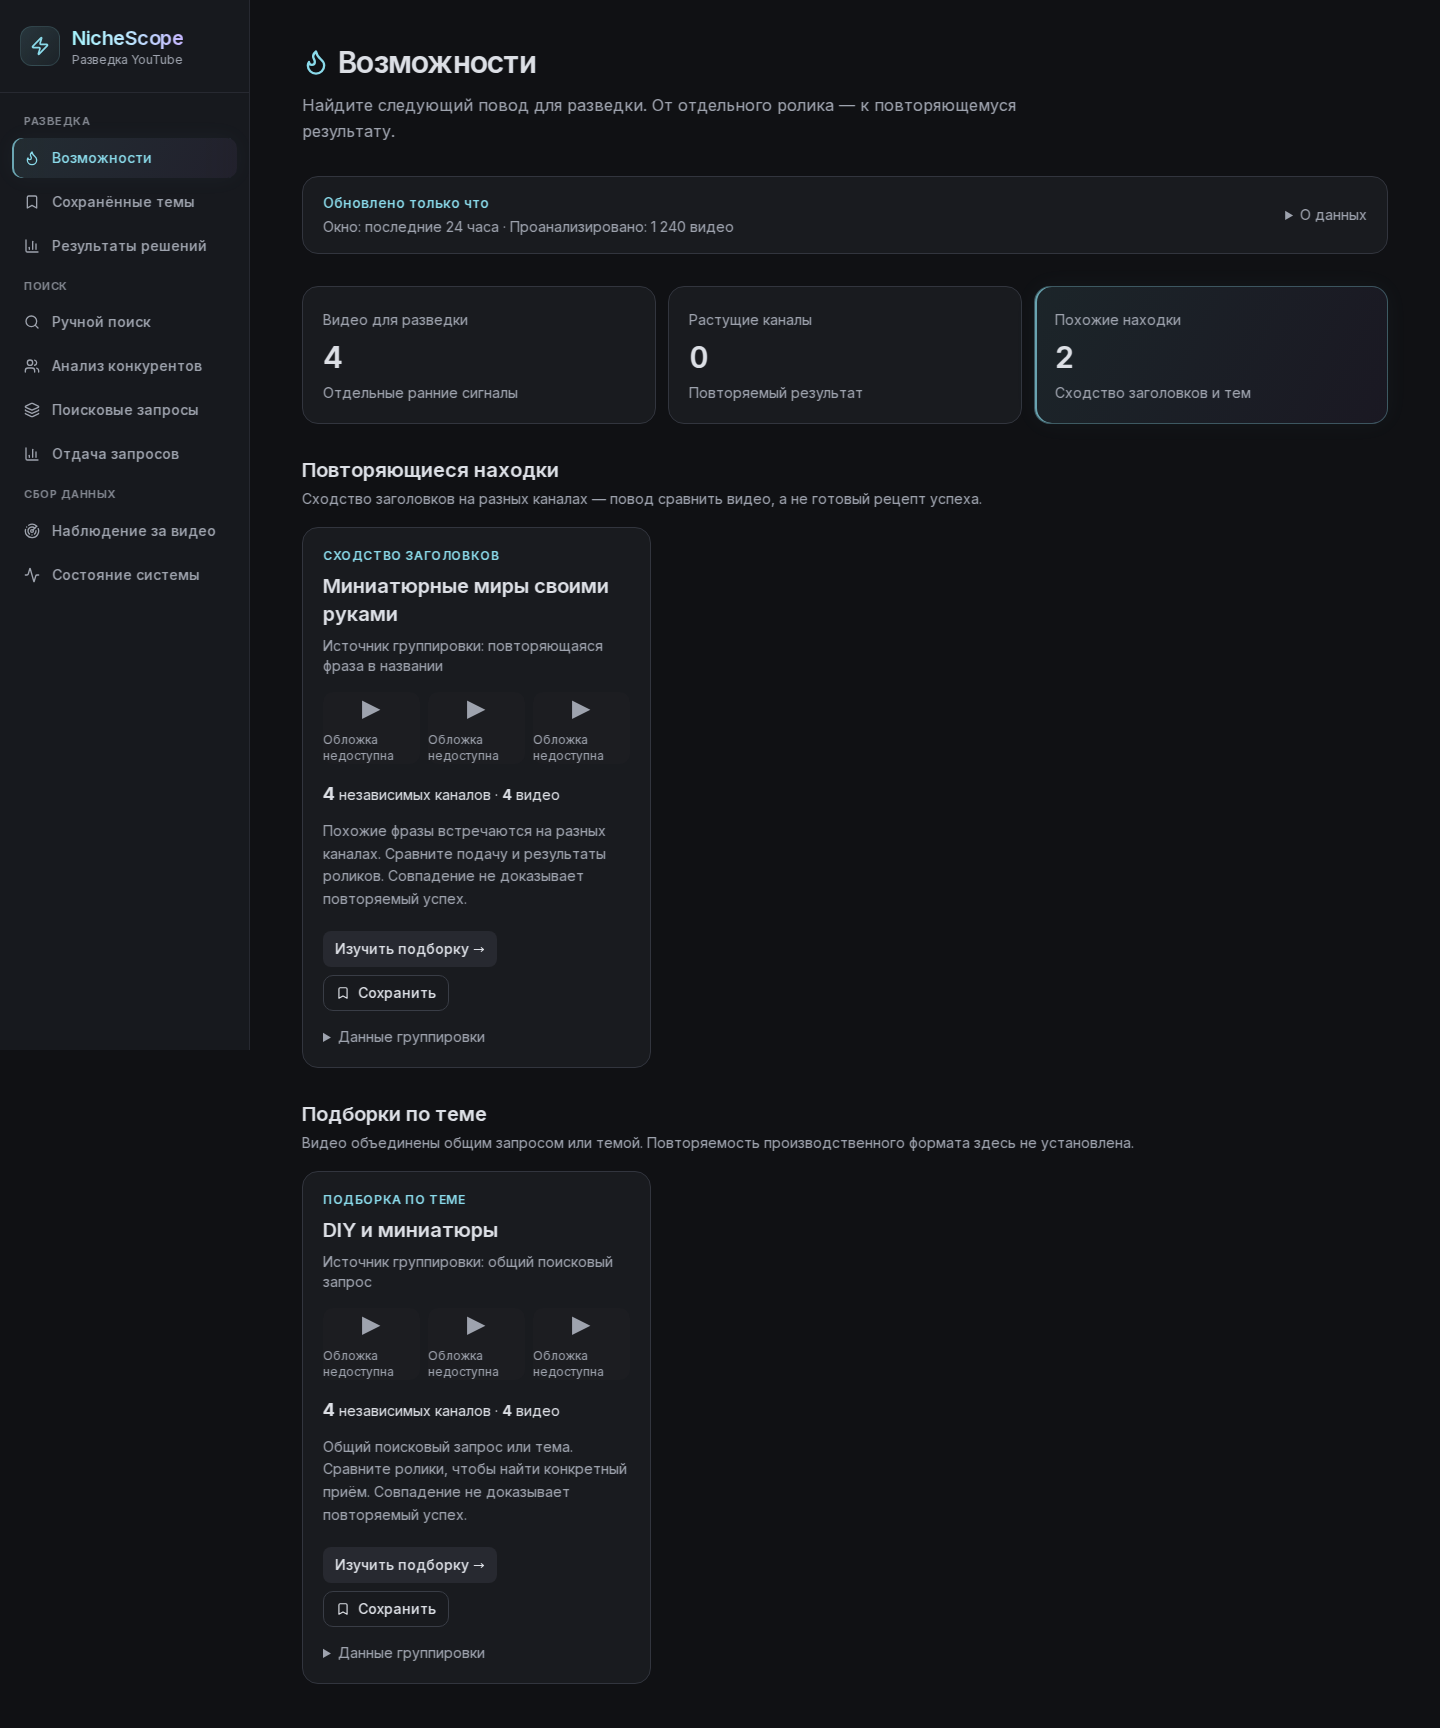
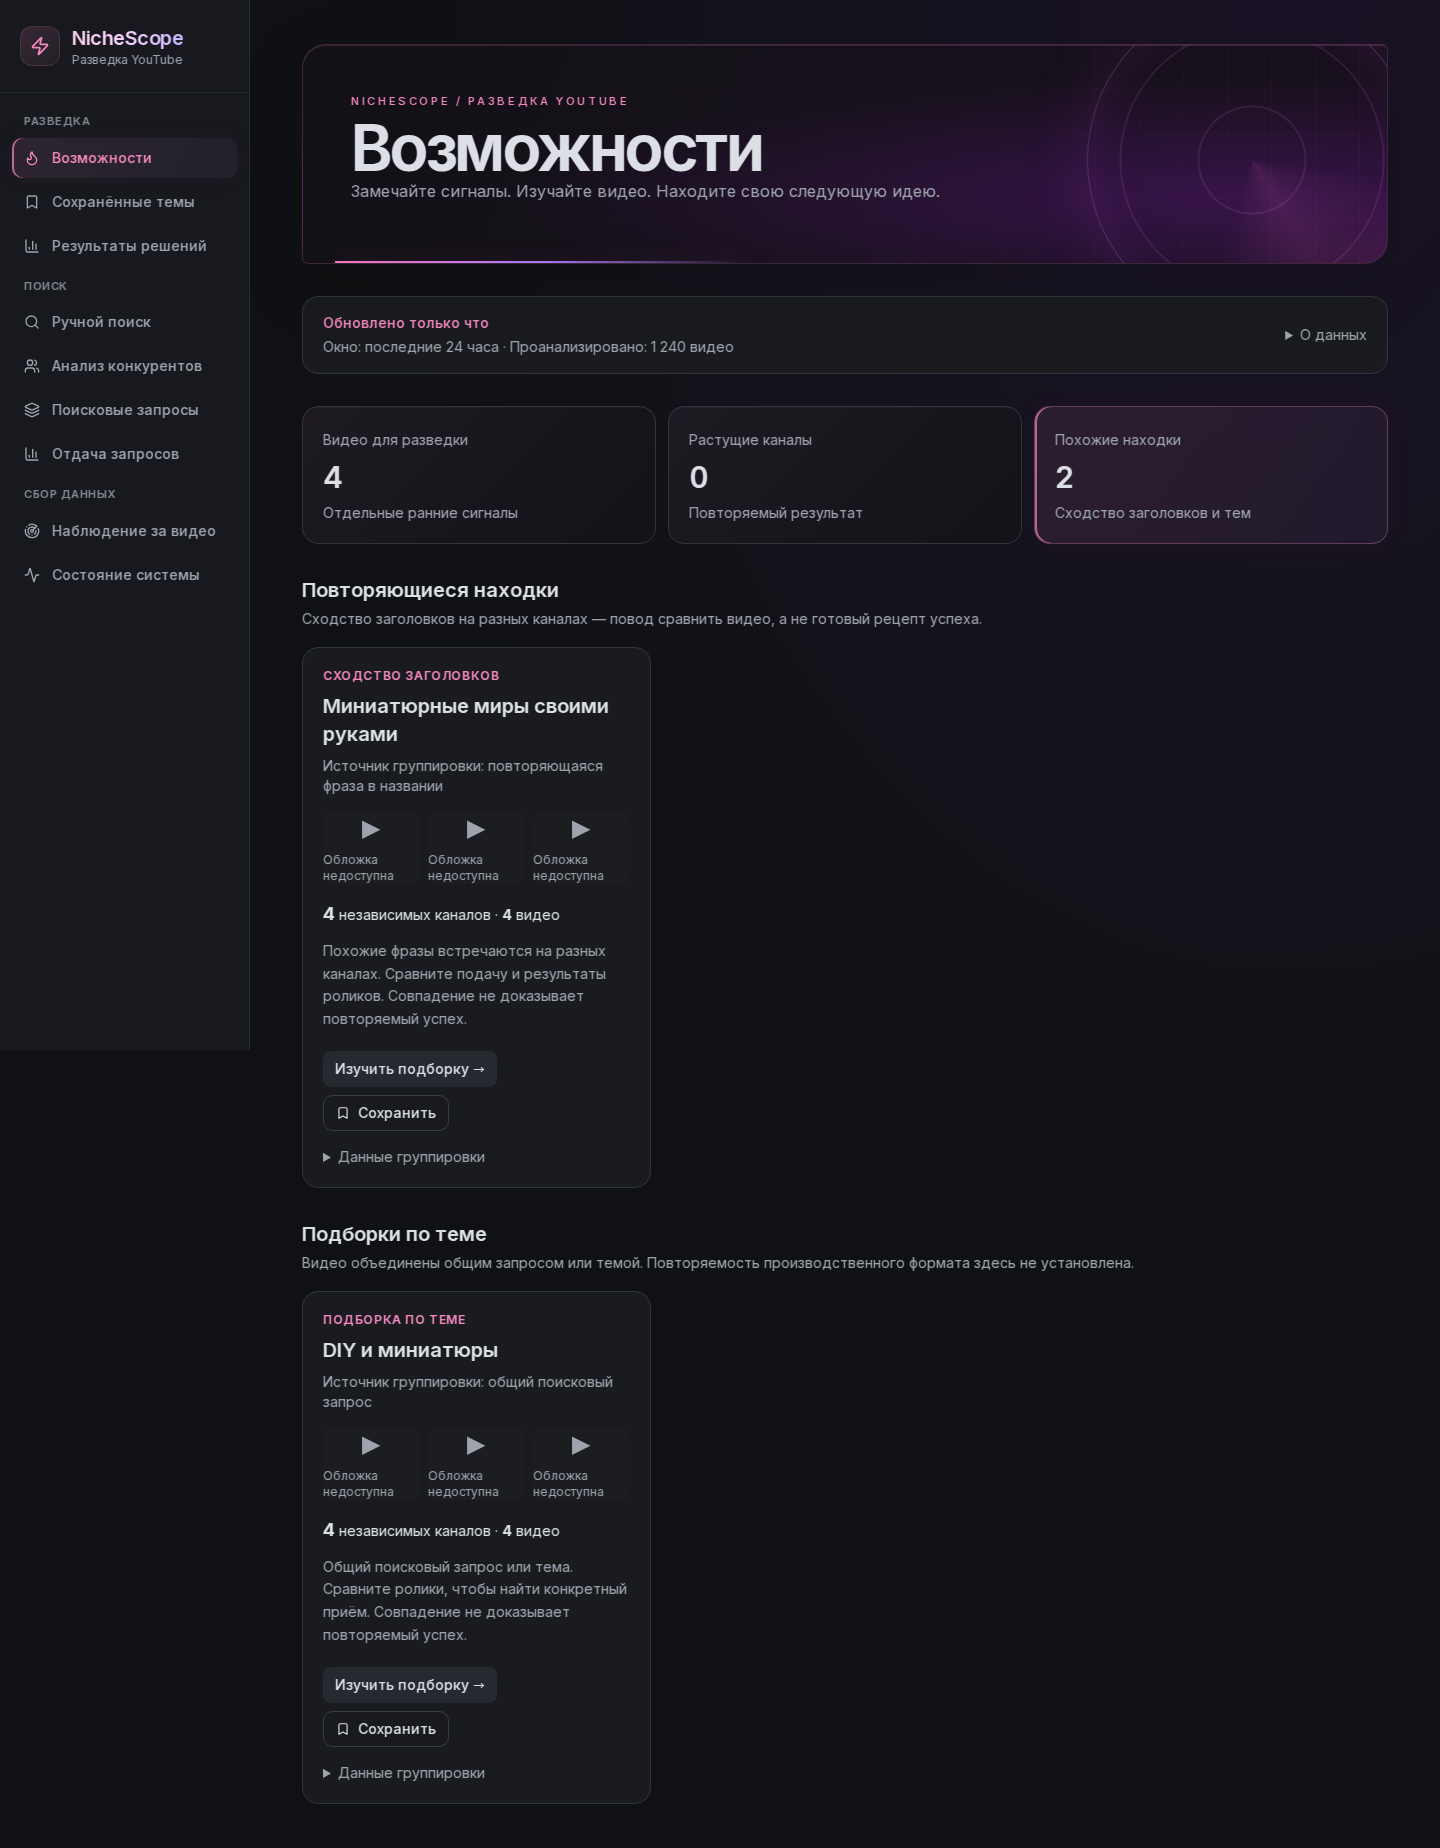
Adapt cyberpunk references to Radar workspace

Changed region(s): [[0.1875, 0.0312, 0.9688, 0.9688], [0.0, 0.0, 0.1562, 0.3438]]

diff --git a/frontend/src/app/globals.css b/frontend/src/app/globals.css
@@ -8,7 +8,7 @@
     --foreground: 220 14% 88%;
     --card: 225 11% 11%;
     --card-foreground: 220 14% 88%;
-    --primary: 190 70% 73%;
+    --primary: 330 85% 75%;
     --neon-violet: 263 72% 72%;
     --primary-foreground: 225 18% 12%;
     --secondary: 225 10% 17%;
@@ -21,7 +21,7 @@
     --destructive-foreground: 210 40% 98%;
     --border: 225 10% 22%;
     --input: 225 10% 25%;
-    --ring: 190 70% 73%;
+    --ring: 330 85% 75%;
     --radius: 0.625rem;
 
     /* Surfaces (design system 1.21B) */
@@ -63,7 +63,7 @@
       "calt" 1;
     -webkit-tap-highlight-color: transparent;
     color-scheme: dark;
-    background-image: radial-gradient(ellipse at 85% 0%, hsl(263 72% 55% / 0.12), transparent 48%), radial-gradient(ellipse at 15% 30%, hsl(190 70% 45% / 0.06), transparent 50%);
+    background-image: radial-gradient(ellipse at 85% 0%, hsl(263 72% 55% / 0.12), transparent 48%), radial-gradient(ellipse at 15% 30%, hsl(330 80% 45% / 0.07), transparent 50%);
     background-attachment: fixed;
   }
 
@@ -86,7 +86,7 @@
   }
 
   .neon-button {
-    background: linear-gradient(110deg, hsl(190 65% 78%), hsl(230 65% 82%), hsl(263 65% 81%));
+    background: linear-gradient(110deg, hsl(330 85% 78%), hsl(295 65% 80%), hsl(263 65% 81%));
     box-shadow: 0 0 18px hsl(var(--primary) / 0.10);
   }
   .neon-button:hover {
@@ -94,7 +94,7 @@
   }
 
   .gradient-text {
-    @apply bg-gradient-to-r from-cyan-200 via-sky-200 to-violet-300 bg-clip-text text-transparent;
+    @apply bg-gradient-to-r from-pink-200 via-fuchsia-200 to-violet-300 bg-clip-text text-transparent;
   }
 }
 
@@ -126,5 +126,75 @@
       transition-duration: 0.01ms !important;
       scroll-behavior: auto !important;
     }
+  }
+}
+
+@layer components {
+  .radar-workspace {
+    background: radial-gradient(ellipse at 90% 0%, hsl(270 70% 45% / .10), transparent 50%), hsl(var(--background));
+  }
+  .radar-hero {
+    position: relative;
+    isolation: isolate;
+    overflow: hidden;
+    min-height: 220px;
+    padding: clamp(24px, 4vw, 48px);
+    border: 1px solid hsl(var(--primary) / .18);
+    border-radius: 24px 6px 24px 6px;
+    background: radial-gradient(ellipse at 85% 70%, hsl(280 75% 48% / .24), transparent 55%), linear-gradient(115deg, #121116, #19101e);
+    box-shadow: inset 0 1px 0 hsl(var(--primary) / .15), 0 20px 70px #00000020;
+  }
+  .radar-hero::before {
+    content: "";
+    position: absolute;
+    inset: 0;
+    z-index: -1;
+    background-image: linear-gradient(hsl(var(--primary) / .035) 1px, transparent 1px), linear-gradient(90deg, hsl(var(--primary) / .035) 1px, transparent 1px);
+    background-size: 44px 44px;
+    mask-image: linear-gradient(90deg, transparent, black);
+  }
+  .radar-hero::after {
+    content: "";
+    position: absolute;
+    bottom: 0;
+    left: 32px;
+    width: 38%;
+    height: 2px;
+    background: linear-gradient(90deg, #f773bd, #a978f7, transparent);
+    box-shadow: 0 0 20px #eb54bc60;
+  }
+  .radar-orbit {
+    position: absolute;
+    pointer-events: none;
+    width: 330px;
+    height: 330px;
+    right: -30px;
+    top: -50px;
+    border-radius: 50%;
+    border: 1px solid #df77db40;
+    background: repeating-radial-gradient(circle, transparent 0 52px, #da7bd420 53px 54px, transparent 55px 78px), conic-gradient(from 220deg, transparent 65%, #f064cb22, transparent 95%);
+    box-shadow: 0 0 70px #b638d420, inset 0 0 55px #b638d420;
+    z-index: -1;
+  }
+  .radar-hero h1 {
+    font-size: clamp(2.3rem, 5vw, 4rem);
+    letter-spacing: -.055em;
+    font-weight: 650;
+  }
+  .radar-panel {
+    background: linear-gradient(135deg, hsl(270 15% 12% / .9), hsl(240 12% 8% / .95));
+    box-shadow: inset 0 1px 0 hsl(300 40% 80% / .04);
+  }
+  .radar-video-card {
+    background: linear-gradient(155deg, #1b1820, #111014 65%);
+    transition: border-color 180ms, box-shadow 180ms;
+  }
+  .radar-video-card:hover, .radar-video-card:focus-within {
+    border-color: hsl(var(--primary) / .35);
+    box-shadow: 0 8px 32px #00000035, 0 0 20px hsl(var(--primary) / .045);
+  }
+  @media (max-width: 640px) {
+    .radar-orbit { opacity: .4; right: -180px; }
+    .radar-hero { min-height: auto; }
   }
 }

diff --git a/frontend/src/components/opportunities/opportunities-dashboard.tsx b/frontend/src/components/opportunities/opportunities-dashboard.tsx
@@ -153,11 +153,16 @@ export function OpportunitiesDashboard() {
     Date.now() - new Date(summary.computed_at).getTime() > 3 * 3600_000;
   return (
     <PageShell>
-      <PageHeader
-        icon={<Flame className="h-7 w-7 text-primary" />}
-        title="Возможности"
-        lead="Найдите следующий повод для разведки. От отдельного ролика — к повторяющемуся результату."
-      />
+      <section className="radar-hero" aria-label="Обзор разведки">
+        <div className="radar-orbit" aria-hidden="true" />
+        <p className="mb-5 text-[11px] font-medium uppercase tracking-[0.24em] text-primary">NicheScope / Разведка YouTube</p>
+        <div className="relative max-w-2xl">
+          <PageHeader
+            title="Возможности"
+            lead="Замечайте сигналы. Изучайте видео. Находите свою следующую идею."
+          />
+        </div>
+      </section>
       <div
         className="flex flex-wrap items-center justify-between gap-4 rounded-2xl border border-border bg-card px-5 py-4"
         data-testid="snapshot-meta"
@@ -232,7 +237,7 @@ export function OpportunitiesDashboard() {
             aria-pressed={section === key}
             onClick={() => setSection(key)}
             className={cn(
-              "rounded-2xl border p-3 sm:p-5 text-left transition-colors",
+              "radar-panel rounded-2xl border p-3 sm:p-5 text-left transition-colors",
               section === key
                 ? "neon-active border-primary/30"
                 : "border-border bg-card hover:border-primary/30",

diff --git a/frontend/src/components/opportunities/winners-table.tsx b/frontend/src/components/opportunities/winners-table.tsx
@@ -97,7 +97,7 @@ export function WinnersTable({ videos }: { videos: AttentionVideoWinner[] }) {
             key={row.video_id}
             className={cn(
               surfaces.section,
-              "overflow-hidden rounded-2xl transition-colors hover:border-primary/40",
+              "radar-video-card overflow-hidden rounded-2xl transition-colors hover:border-primary/40",
             )}
             data-testid="winner-row"
           >

diff --git a/frontend/src/components/layout/app-shell.tsx b/frontend/src/components/layout/app-shell.tsx
@@ -8,7 +8,7 @@ interface AppShellProps {
 
 export function AppShell({ children }: AppShellProps) {
   return (
-    <div className="min-h-screen bg-background">
+    <div className="radar-workspace min-h-screen">
       <div className="flex min-h-screen flex-col lg:flex-row">
         <Sidebar />
         <main className="flex min-h-0 min-w-0 flex-1 flex-col overflow-x-hidden">{children}</main>
